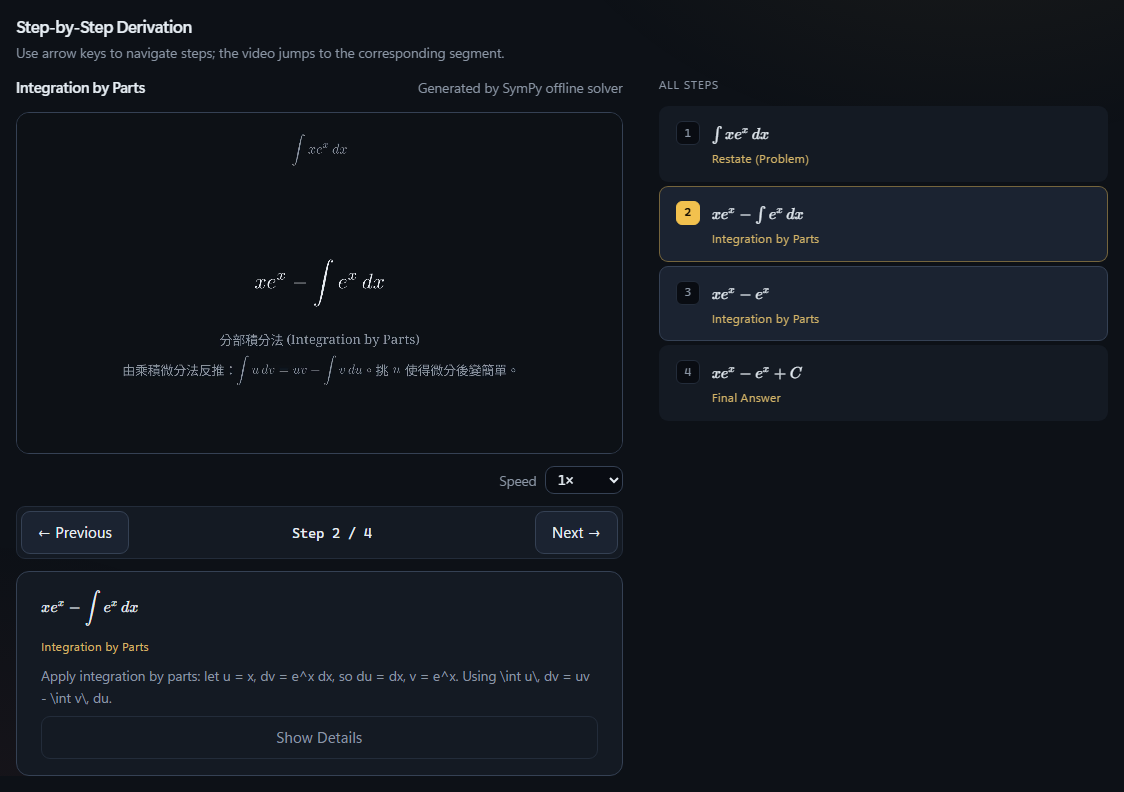
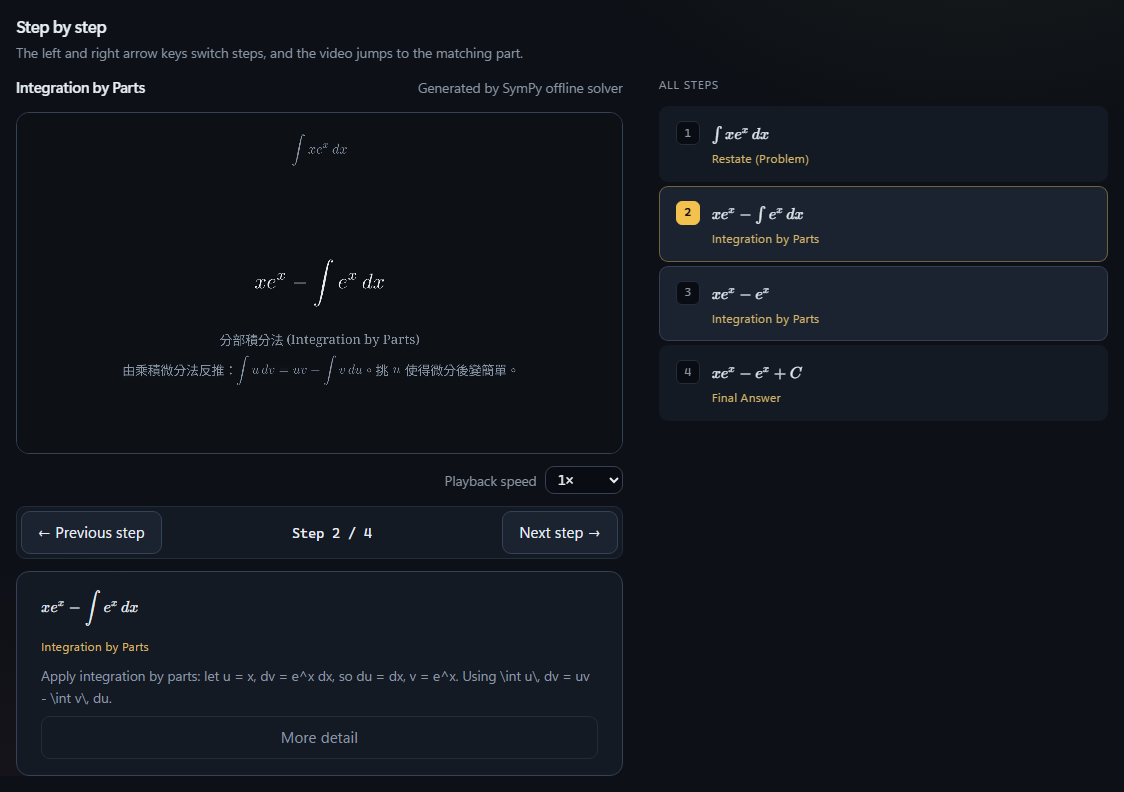
docs: English screenshots from the app's own English mode, add the language setting
Every images/en shot is now the app switched to English in Settings rather
than translated after the fact; a sixth screenshot in each set shows the
Interface language switch. The English README notes that step text and
video captions come from the solver and stay Chinese.

diff --git a/README.md b/README.md
@@ -31,7 +31,11 @@ Covers limits, derivatives, integrals, parametric & polar coordinates, series, a
 |---|
 | ![Problem Type Menu](images/en/05-kind-picker.png) |
 
-Screenshots were captured from the local running instance.
+| Settings: Interface Language (Traditional Chinese / English); every screenshot here is the app's own English mode |
+|---|
+| ![Interface Language](images/en/06-settings-language.png) |
+
+Screenshots were captured from the local running instance in its English mode (Settings → Interface language). Step explanations and video captions come from the solver and stay in Chinese.
 
 ## Sample Videos
 

diff --git a/README_zh.md b/README_zh.md
@@ -33,6 +33,10 @@
 |---|
 | ![題型選單](images/05-kind-picker.png) |
 
+| 設定：介面語言可切換繁體中文／English，[英文版 README](README.md) 的截圖就是英文模式的畫面 |
+|---|
+| ![介面語言](images/06-settings-language.png) |
+
 截圖取自本機執行的版本。
 
 ## 範例影片
